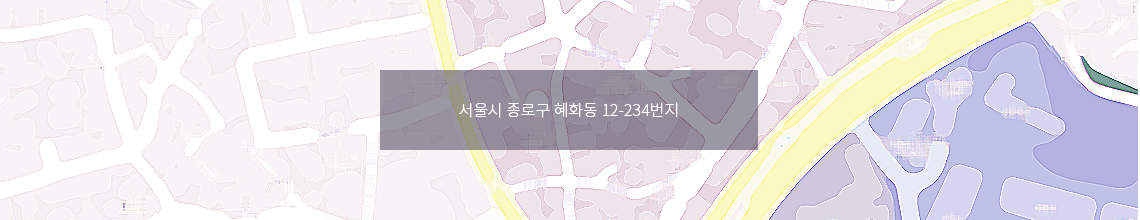
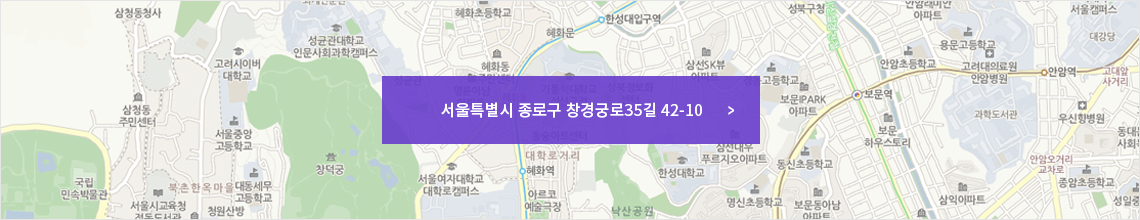
[추가수정] 반영

diff --git a/costar2018v2/00_index.html b/costar2018v2/00_index.html
@@ -135,7 +135,7 @@
                 <div class="place-box">
                     <ul>
                         <li class="title">코스타 공간 소개</li>
-                        <li class="txt">1층 문화복합공간</li>
+                        <li class="txt">1층 문화공유공간</li>
                         <li class="txt">2층 코워킹스페이스</li>
                         <li class="btn"><a href="#">구경하러가기</a></li>
                     </ul>
@@ -156,7 +156,7 @@
                                 <dt>옥상 피크닉 친구들과 모임</dt>
                                 <dd>일시 : 2018.08.20</dd>
                                 <dd>장소 : 코스타 1F 라운지</dd>
-                                <dd>참여인원: <span class="txt-red">10</span>/16</dd>
+                                <dd>참여인원: <span class="txt-pink">10</span>/16</dd>
                             </dl>
                         </a>
                     </li>
@@ -169,7 +169,7 @@
                                 <dt>옥상 피크닉 친구들과 모임</dt>
                                 <dd>일시 : 2018.08.20</dd>
                                 <dd>장소 : 코스타 1F 라운지</dd>
-                                <dd>참여인원: <span class="txt-red">10</span>/16</dd>
+                                <dd>참여인원: <span class="txt-pink">10</span>/16</dd>
                             </dl>
                         </a>
                     </li>
@@ -182,7 +182,7 @@
                                 <dt>옥상 피크닉 친구들과 모임</dt>
                                 <dd>일시 : 2018.08.20</dd>
                                 <dd>장소 : 코스타 1F 라운지</dd>
-                                <dd>참여인원: <span class="txt-red">10</span>/16</dd>
+                                <dd>참여인원: <span class="txt-pink">10</span>/16</dd>
                             </dl>
                         </a>
                     </li>
@@ -190,7 +190,7 @@
             </div>
         </div>
     </section>
-    <section id="main-subBanner" style="background: #b181b8;">
+    <section id="main-subBanner" style="background: #e5e5e5;">
         <div class="sub-banner-img">
             <a href="#">
                 <img src="./assets/images/index/img-subbanner.png" alt="서브 메인배너">
@@ -308,20 +308,20 @@
                     <ul>
                         <li>상호명:코스타</li><span class="f-gubun">|</span>
                         <li>대표:김세희</li><span class="f-gubun">|</span>
-                        <li>사업자등록증:000-00-000000</li><span class="f-gubun">|</span>
+                        <li>사업자등록증:275-28-00535</li><span class="f-gubun">|</span>
                         <li>통신판매업신고번호: 0000-서울혜화-0000</li><span class="f-gubun">|</span>
                         <li><a href="#">사업자등록정보 ></a></li>
                     </ul>
                 </div>
                 <div class="f-info-2">
                     <ul>
-                        <li>영업소재지:서울시 종로구 혜화동 1층</li><span class="f-gubun">|</span>
+                        <li>영업소재지: 서울특별시 종로구 창경궁로35길 42-10</li><span class="f-gubun">|</span>
                         <li>이메일: costar2018@naver.com</li>
                     </ul>
                 </div>
                 <div class="f-info-3">
                     <ul>
-                        <li>대표전화: 1599-4312 (평일 오전 10시 ~ 오후 6시)</li>
+                        <li>대표전화: 1111-1111 (평일 오전 10시 ~ 오후 10시)</li>
                     </ul>
                 </div>
                 <div class="f-info-4">

diff --git a/costar2018v2/assets/css/layout/index.css b/costar2018v2/assets/css/layout/index.css
@@ -1,20 +1,16 @@
 /* Layout */
-section#main-banner {width:100%;margin:0 auto;}
+section#main-banner {width:100%;height:780px;margin:0 auto;}
 section#main-program {width:1140px;margin:0 auto;}
 section#main-subBanner {width:100%;height:240px;margin:0 auto;}
 section#main-info {width:1140px;height:822px;margin:0 auto;}
 
 /* Style */
-#main-banner {
-    height:780px;
-}
-
-.swiper-container {
-    width: 100%;
+#main-banner .swiper-container {
+    min-width:1140px;
     height: 100%;
 }
 
-.swiper-slide {
+#main-banner .swiper-slide {
     text-align: center;
     font-size: 18px;
     background: #fff;
@@ -175,7 +171,7 @@ section#main-program {
     right: 80px;
     width:65px;
     height:65px;
-    background:url(../../images/index/icon-program-attr.gif) no-repeat;
+    background:url(../../images/index/icon-program-attr.png) no-repeat;
     font-family: 'Noto Sans KR', sans-serif;
     font-size: 12px;
     color: white;
@@ -188,7 +184,7 @@ section#main-program {
     right: 5px;
     width:65px;
     height:65px;
-    background:url(../../images/index/icon-program-ing.gif) no-repeat;
+    background:url(../../images/index/icon-program-ing.png) no-repeat;
     font-family: 'Noto Sans KR', sans-serif;
     font-size: 12px;
     color: white;
@@ -201,7 +197,7 @@ section#main-program {
     right: 10px;
     width:65px;
     height:65px;
-    background:url(../../images/index/icon-program-finish.gif) no-repeat;
+    background:url(../../images/index/icon-program-finish.png) no-repeat;
     font-family: 'Noto Sans KR', sans-serif;
     font-size: 12px;
     color: white;

diff --git a/costar2018v2/assets/css/common/font.css b/costar2018v2/assets/css/common/font.css
@@ -27,7 +27,7 @@ p.txt-purple {
 }
 
 p.txt-pink {
-    color: #d9419c;
+    color: #ee41aa;
 }
 
 p.txt-light {
@@ -48,12 +48,12 @@ span.txt-red {
 }
 
 span.txt-pink {
-    color:#d9419c;
+    color:#ee41aa;
 }
 
 span.txt-pink-b {
     font-weight: 700;
-    color:#d9419c;
+    color:#ee41aa;
 }
 
 span.txt-sky {
